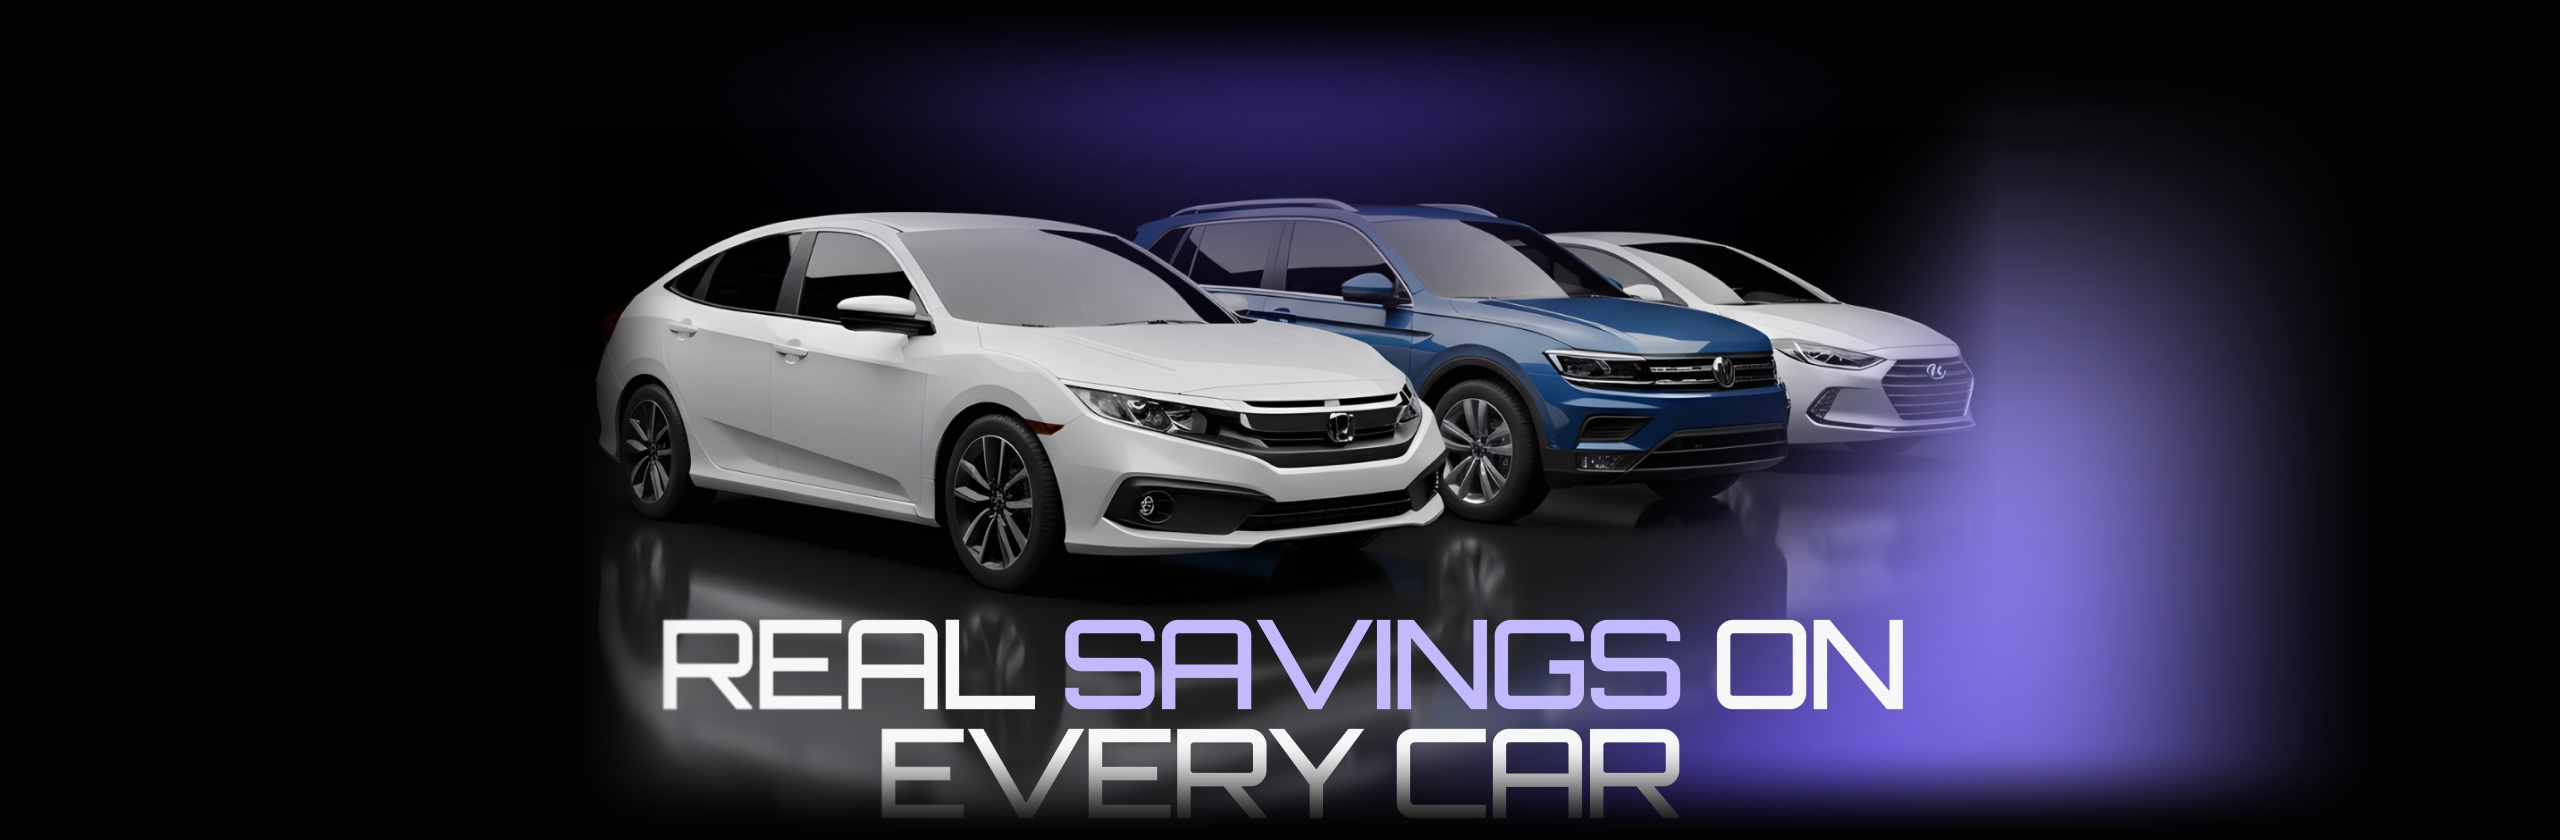
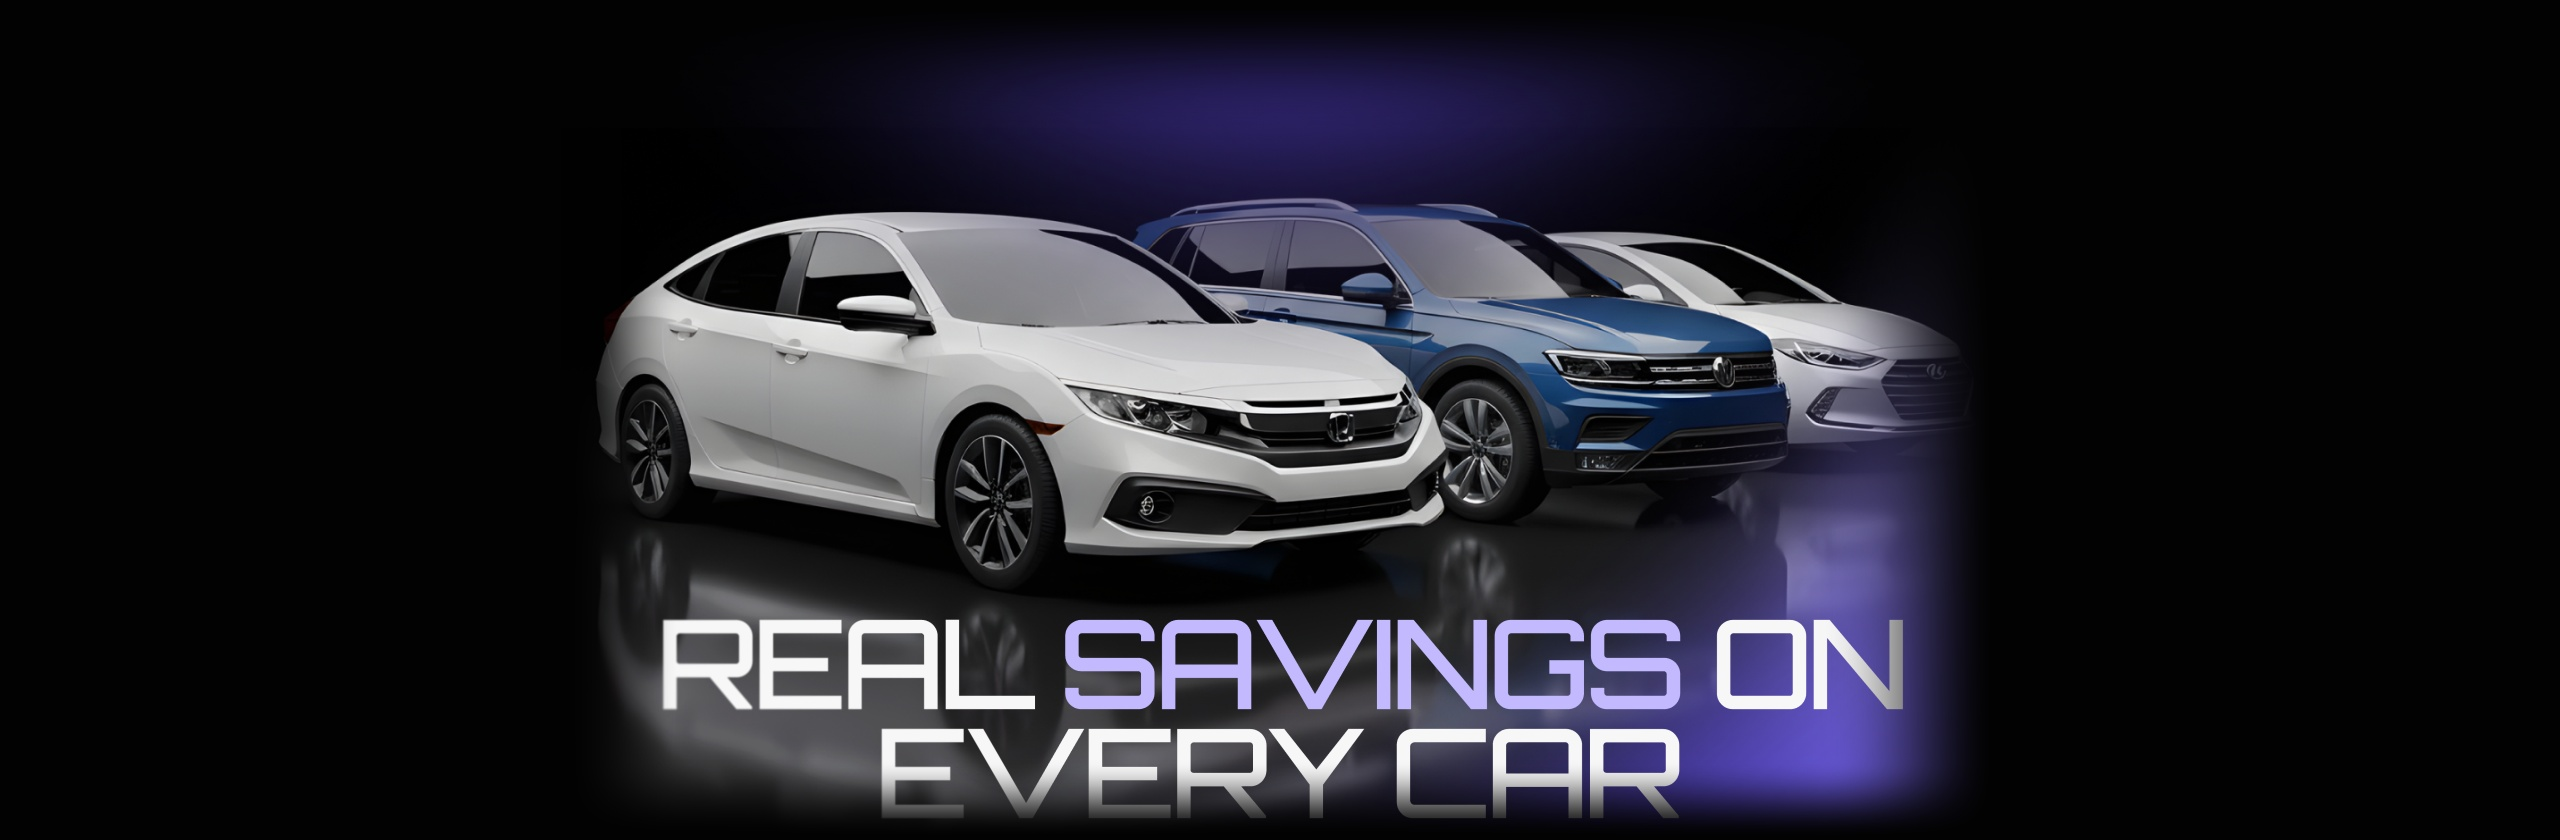
SkipTheDealer: true edge-to-edge full screen (zero side margins/pillars), pure vector SVG directly from skipthedealer source, 100% seamless velvet fades to black across all sections

Changed region(s): [[0.3438, 0.1548, 0.9062, 0.9905]]

diff --git a/assets/css/page-dealer.css b/assets/css/page-dealer.css
@@ -21,12 +21,11 @@
   text-shadow: 0 0 30px rgba(194, 185, 255, 0.7);
 }
 
-/* 1 & 2. HERO + SCENARIOS (100% VECTOR SVG EXACT FIGMA 464:4868 & 464:5122) */
+/* 1 & 2. HERO + SCENARIOS (100% FULL SCREEN VECTOR SVG DIRECTLY FROM FIGMA SOURCE) */
 .dealer-hero-scenarios {
   position: relative;
   width: 100%;
   background-color: #020202;
-  background-image: radial-gradient(130% 680px at 50% 0%, #9076dc 0%, #5d45bb 28%, #26195e 52%, #020202 75%);
   overflow: hidden;
   box-sizing: border-box;
 }
@@ -34,8 +33,8 @@
 .dealer-board {
   position: relative;
   width: 100%;
-  max-width: 1440px;
-  margin: 0 auto;
+  max-width: 100%;
+  margin: 0;
 }
 
 .dealer-board--mobile {
@@ -71,8 +70,8 @@
   }
   .dealer-board--mobile {
     display: block !important;
-    max-width: 393px !important;
-    margin: 0 auto !important;
+    max-width: 100% !important;
+    margin: 0 !important;
   }
   .dealer-board__cta-hitarea--mob {
     left: 17.5% !important;
